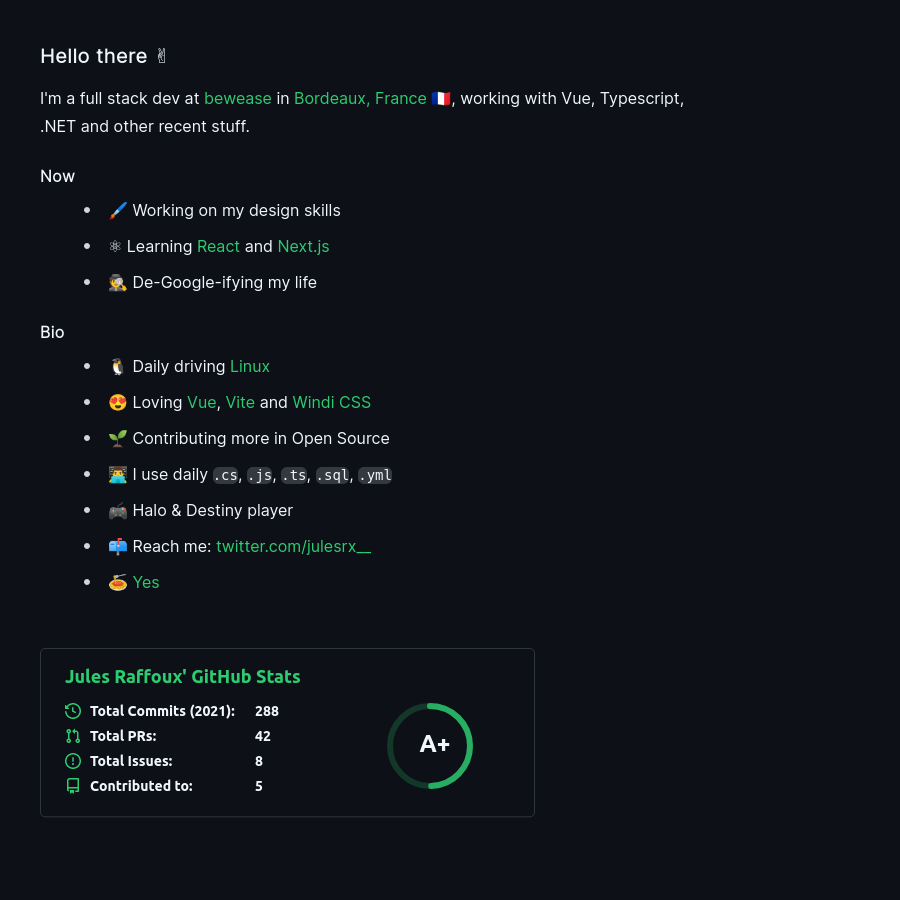
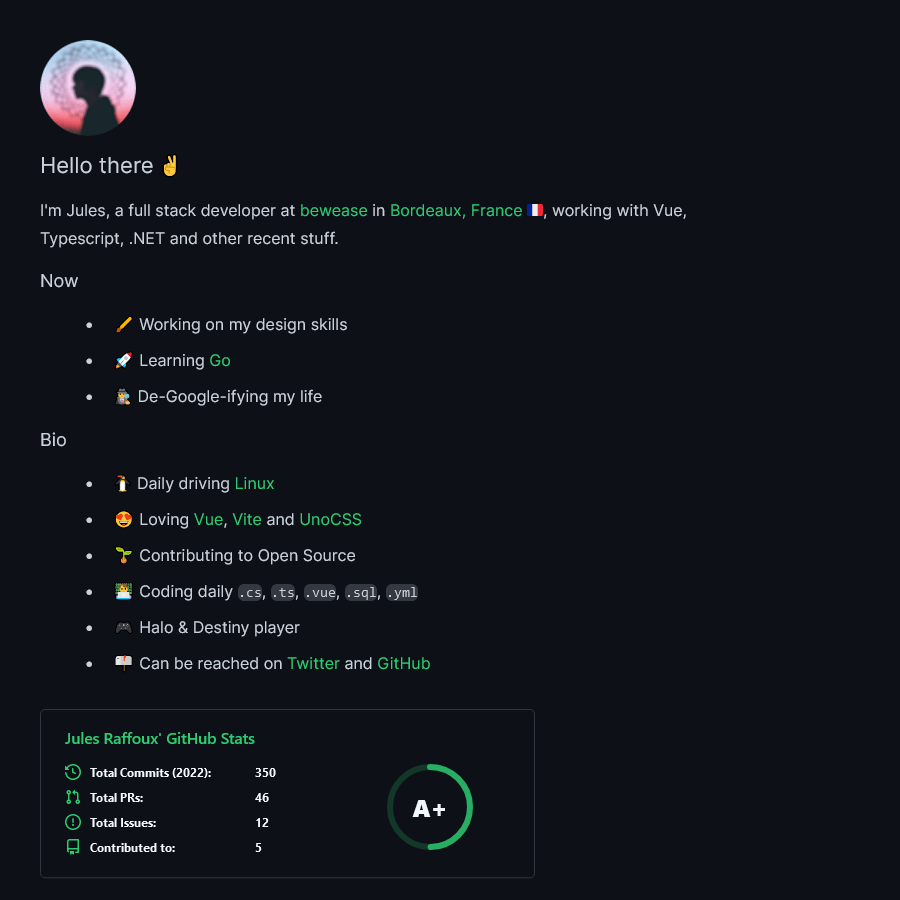
Deploying to gh-pages from @ julesrx/julesrx@035dab3df18ef5d6481e03337e4363506f4db518 🚀

diff --git a/_payload.js b/_payload.js
@@ -1,1 +1,1 @@
-export default (function(a,b,c,d,e,f,g,h,i,j,k,l,m,n,o,p,q,r,s,t,u,v,w,x,y,z,A,B,C,D,E,F,G,H,I,J,K,L,M,N,O,P,Q,R,S,T,U,V,W,X,Y,Z,_,$,aa,ab,ac,ad,ae,af){return {data:{"content-query-cZoCUvfeI7":{_path:"\u002Freadme",_draft:m,_partial:m,_locale:"en",_empty:m,title:"Readme",description:p,excerpt:{type:q,children:[{type:b,tag:r,props:{id:n},children:[{type:a,value:o}]},{type:b,tag:h,props:{},children:[{type:a,value:s},{type:b,tag:c,props:{href:t,rel:[d]},children:[{type:a,value:u}]},{type:a,value:v},{type:b,tag:c,props:{href:w,rel:[d]},children:[{type:a,value:x}]},{type:a,value:y}]},{type:b,tag:i,props:{id:z},children:[{type:a,value:A}]},{type:b,tag:j,props:{},children:[{type:b,tag:e,props:{},children:[{type:a,value:B}]},{type:b,tag:e,props:{},children:[{type:a,value:C},{type:b,tag:c,props:{href:D,rel:[d]},children:[{type:a,value:E}]}]},{type:b,tag:e,props:{},children:[{type:a,value:F}]}]},{type:b,tag:i,props:{id:G},children:[{type:a,value:H}]},{type:b,tag:j,props:{},children:[{type:b,tag:e,props:{},children:[{type:a,value:I},{type:b,tag:c,props:{href:J,rel:[d]},children:[{type:a,value:K}]}]},{type:b,tag:e,props:{},children:[{type:a,value:L},{type:b,tag:c,props:{href:M,rel:[d]},children:[{type:a,value:N}]},{type:a,value:f},{type:b,tag:c,props:{href:O,rel:[d]},children:[{type:a,value:P}]},{type:a,value:k},{type:b,tag:c,props:{href:Q,rel:[d]},children:[{type:a,value:R}]}]},{type:b,tag:e,props:{},children:[{type:a,value:S}]},{type:b,tag:e,props:{},children:[{type:a,value:T},{type:b,tag:g,props:{},children:[{type:a,value:U}]},{type:a,value:f},{type:b,tag:g,props:{},children:[{type:a,value:V}]},{type:a,value:f},{type:b,tag:g,props:{},children:[{type:a,value:W}]},{type:a,value:f},{type:b,tag:g,props:{},children:[{type:a,value:X}]},{type:a,value:f},{type:b,tag:g,props:{},children:[{type:a,value:Y}]}]},{type:b,tag:e,props:{},children:[{type:a,value:Z}]},{type:b,tag:e,props:{},children:[{type:a,value:_},{type:b,tag:c,props:{href:$,rel:[d]},children:[{type:a,value:aa}]},{type:a,value:k},{type:b,tag:c,props:{href:l,rel:[d]},children:[{type:a,value:ab}]}]}]},{type:b,tag:h,props:{},children:[{type:b,tag:c,props:{href:l,rel:[d]},children:[{type:b,tag:ac,props:{alt:ad,src:ae},children:[]}]}]}]},body:{type:q,children:[{type:b,tag:r,props:{id:n},children:[{type:a,value:o}]},{type:b,tag:h,props:{},children:[{type:a,value:s},{type:b,tag:c,props:{href:t,rel:[d]},children:[{type:a,value:u}]},{type:a,value:v},{type:b,tag:c,props:{href:w,rel:[d]},children:[{type:a,value:x}]},{type:a,value:y}]},{type:b,tag:i,props:{id:z},children:[{type:a,value:A}]},{type:b,tag:j,props:{},children:[{type:b,tag:e,props:{},children:[{type:a,value:B}]},{type:b,tag:e,props:{},children:[{type:a,value:C},{type:b,tag:c,props:{href:D,rel:[d]},children:[{type:a,value:E}]}]},{type:b,tag:e,props:{},children:[{type:a,value:F}]}]},{type:b,tag:i,props:{id:G},children:[{type:a,value:H}]},{type:b,tag:j,props:{},children:[{type:b,tag:e,props:{},children:[{type:a,value:I},{type:b,tag:c,props:{href:J,rel:[d]},children:[{type:a,value:K}]}]},{type:b,tag:e,props:{},children:[{type:a,value:L},{type:b,tag:c,props:{href:M,rel:[d]},children:[{type:a,value:N}]},{type:a,value:f},{type:b,tag:c,props:{href:O,rel:[d]},children:[{type:a,value:P}]},{type:a,value:k},{type:b,tag:c,props:{href:Q,rel:[d]},children:[{type:a,value:R}]}]},{type:b,tag:e,props:{},children:[{type:a,value:S}]},{type:b,tag:e,props:{},children:[{type:a,value:T},{type:b,tag:g,props:{},children:[{type:a,value:U}]},{type:a,value:f},{type:b,tag:g,props:{},children:[{type:a,value:V}]},{type:a,value:f},{type:b,tag:g,props:{},children:[{type:a,value:W}]},{type:a,value:f},{type:b,tag:g,props:{},children:[{type:a,value:X}]},{type:a,value:f},{type:b,tag:g,props:{},children:[{type:a,value:Y}]}]},{type:b,tag:e,props:{},children:[{type:a,value:Z}]},{type:b,tag:e,props:{},children:[{type:a,value:_},{type:b,tag:c,props:{href:$,rel:[d]},children:[{type:a,value:aa}]},{type:a,value:k},{type:b,tag:c,props:{href:l,rel:[d]},children:[{type:a,value:ab}]}]}]},{type:b,tag:h,props:{},children:[{type:b,tag:c,props:{href:l,rel:[d]},children:[{type:b,tag:ac,props:{alt:ad,src:ae},children:[]}]}]}],toc:{title:p,searchDepth:af,depth:af,links:[{id:n,depth:3,text:o}]}},_type:"markdown",_id:"content:readme.md",_source:"content",_file:"readme.md",_extension:"md"}},prerenderedAt:1668645088733}}("text","element","a","nofollow","li",", ","code-inline","p","h4","ul"," and ","https:\u002F\u002Fgithub.com\u002Fjulesrx",false,"hello-there-","Hello there ✌","","root","h3","I'm Jules, a full stack developer at ","https:\u002F\u002Fbewease.fr\u002F","bewease"," in ","https:\u002F\u002Fwww.openstreetmap.org\u002Fnode\u002F1691675873","Bordeaux, France 🇫🇷",", working with Vue, Typescript, .NET and other recent stuff.","now","Now","🖌 Working on my design skills","🚀 Learning ","https:\u002F\u002Fgo.dev\u002F","Go","🕵 De-Google-ifying my life","bio","Bio","🐧 Daily driving ","https:\u002F\u002Fpop.system76.com\u002F","Linux","😍 Loving ","https:\u002F\u002Fvuejs.org\u002F","Vue","https:\u002F\u002Fvitejs.dev\u002F","Vite","https:\u002F\u002Fgithub.com\u002Funocss\u002Funocss\u002F","UnoCSS","🌱 Contributing to Open Source","👨💻 Coding daily ",".cs",".ts",".vue",".sql",".yml","🎮 Halo & Destiny player","📫 Can be reached on ","https:\u002F\u002Ftwitter.com\u002Fjulesrafx","Twitter","GitHub","img","julesrx's GitHub Stats","https:\u002F\u002Fgithub-readme-stats.vercel.app\u002Fapi?username=julesrx&hide=stars&count_private=true&show_icons=true&text_color=F0F6FC&title_color=2ecc71&icon_color=2ecc71&bg_color=0d1117&border_color=30363d",2))
+export default (function(a,b,c,d,e,f,g,h,i,j,k,l,m,n,o,p,q,r,s,t,u,v,w,x,y,z,A,B,C,D,E,F,G,H,I,J,K,L,M,N,O,P,Q,R,S,T,U,V,W,X,Y,Z,_,$,aa,ab,ac,ad,ae,af){return {data:{"content-query-cZoCUvfeI7":{_path:"\u002Freadme",_draft:m,_partial:m,_locale:"en",_empty:m,title:"Readme",description:p,excerpt:{type:q,children:[{type:b,tag:r,props:{id:n},children:[{type:a,value:o}]},{type:b,tag:h,props:{},children:[{type:a,value:s},{type:b,tag:c,props:{href:t,rel:[d]},children:[{type:a,value:u}]},{type:a,value:v},{type:b,tag:c,props:{href:w,rel:[d]},children:[{type:a,value:x}]},{type:a,value:y}]},{type:b,tag:i,props:{id:z},children:[{type:a,value:A}]},{type:b,tag:j,props:{},children:[{type:b,tag:e,props:{},children:[{type:a,value:B}]},{type:b,tag:e,props:{},children:[{type:a,value:C},{type:b,tag:c,props:{href:D,rel:[d]},children:[{type:a,value:E}]}]},{type:b,tag:e,props:{},children:[{type:a,value:F}]}]},{type:b,tag:i,props:{id:G},children:[{type:a,value:H}]},{type:b,tag:j,props:{},children:[{type:b,tag:e,props:{},children:[{type:a,value:I},{type:b,tag:c,props:{href:J,rel:[d]},children:[{type:a,value:K}]}]},{type:b,tag:e,props:{},children:[{type:a,value:L},{type:b,tag:c,props:{href:M,rel:[d]},children:[{type:a,value:N}]},{type:a,value:f},{type:b,tag:c,props:{href:O,rel:[d]},children:[{type:a,value:P}]},{type:a,value:k},{type:b,tag:c,props:{href:Q,rel:[d]},children:[{type:a,value:R}]}]},{type:b,tag:e,props:{},children:[{type:a,value:S}]},{type:b,tag:e,props:{},children:[{type:a,value:T},{type:b,tag:g,props:{},children:[{type:a,value:U}]},{type:a,value:f},{type:b,tag:g,props:{},children:[{type:a,value:V}]},{type:a,value:f},{type:b,tag:g,props:{},children:[{type:a,value:W}]},{type:a,value:f},{type:b,tag:g,props:{},children:[{type:a,value:X}]},{type:a,value:f},{type:b,tag:g,props:{},children:[{type:a,value:Y}]}]},{type:b,tag:e,props:{},children:[{type:a,value:Z}]},{type:b,tag:e,props:{},children:[{type:a,value:_},{type:b,tag:c,props:{href:$,rel:[d]},children:[{type:a,value:aa}]},{type:a,value:k},{type:b,tag:c,props:{href:l,rel:[d]},children:[{type:a,value:ab}]}]}]},{type:b,tag:h,props:{},children:[{type:b,tag:c,props:{href:l,rel:[d]},children:[{type:b,tag:ac,props:{alt:ad,src:ae},children:[]}]}]}]},body:{type:q,children:[{type:b,tag:r,props:{id:n},children:[{type:a,value:o}]},{type:b,tag:h,props:{},children:[{type:a,value:s},{type:b,tag:c,props:{href:t,rel:[d]},children:[{type:a,value:u}]},{type:a,value:v},{type:b,tag:c,props:{href:w,rel:[d]},children:[{type:a,value:x}]},{type:a,value:y}]},{type:b,tag:i,props:{id:z},children:[{type:a,value:A}]},{type:b,tag:j,props:{},children:[{type:b,tag:e,props:{},children:[{type:a,value:B}]},{type:b,tag:e,props:{},children:[{type:a,value:C},{type:b,tag:c,props:{href:D,rel:[d]},children:[{type:a,value:E}]}]},{type:b,tag:e,props:{},children:[{type:a,value:F}]}]},{type:b,tag:i,props:{id:G},children:[{type:a,value:H}]},{type:b,tag:j,props:{},children:[{type:b,tag:e,props:{},children:[{type:a,value:I},{type:b,tag:c,props:{href:J,rel:[d]},children:[{type:a,value:K}]}]},{type:b,tag:e,props:{},children:[{type:a,value:L},{type:b,tag:c,props:{href:M,rel:[d]},children:[{type:a,value:N}]},{type:a,value:f},{type:b,tag:c,props:{href:O,rel:[d]},children:[{type:a,value:P}]},{type:a,value:k},{type:b,tag:c,props:{href:Q,rel:[d]},children:[{type:a,value:R}]}]},{type:b,tag:e,props:{},children:[{type:a,value:S}]},{type:b,tag:e,props:{},children:[{type:a,value:T},{type:b,tag:g,props:{},children:[{type:a,value:U}]},{type:a,value:f},{type:b,tag:g,props:{},children:[{type:a,value:V}]},{type:a,value:f},{type:b,tag:g,props:{},children:[{type:a,value:W}]},{type:a,value:f},{type:b,tag:g,props:{},children:[{type:a,value:X}]},{type:a,value:f},{type:b,tag:g,props:{},children:[{type:a,value:Y}]}]},{type:b,tag:e,props:{},children:[{type:a,value:Z}]},{type:b,tag:e,props:{},children:[{type:a,value:_},{type:b,tag:c,props:{href:$,rel:[d]},children:[{type:a,value:aa}]},{type:a,value:k},{type:b,tag:c,props:{href:l,rel:[d]},children:[{type:a,value:ab}]}]}]},{type:b,tag:h,props:{},children:[{type:b,tag:c,props:{href:l,rel:[d]},children:[{type:b,tag:ac,props:{alt:ad,src:ae},children:[]}]}]}],toc:{title:p,searchDepth:af,depth:af,links:[{id:n,depth:3,text:o}]}},_type:"markdown",_id:"content:readme.md",_source:"content",_file:"readme.md",_extension:"md"}},prerenderedAt:1668674274795}}("text","element","a","nofollow","li",", ","code-inline","p","h4","ul"," and ","https:\u002F\u002Fgithub.com\u002Fjulesrx",false,"hello-there-","Hello there ✌","","root","h3","I'm Jules, a full stack developer at ","https:\u002F\u002Fbewease.fr\u002F","bewease"," in ","https:\u002F\u002Fwww.openstreetmap.org\u002Fnode\u002F1691675873","Bordeaux, France 🇫🇷",", working with Vue, Typescript, .NET and other recent stuff.","now","Now","🖌 Working on my design skills","🚀 Learning ","https:\u002F\u002Fgo.dev\u002F","Go","🕵 De-Google-ifying my life","bio","Bio","🐧 Daily driving ","https:\u002F\u002Fpop.system76.com\u002F","Linux","😍 Loving ","https:\u002F\u002Fvuejs.org\u002F","Vue","https:\u002F\u002Fvitejs.dev\u002F","Vite","https:\u002F\u002Fgithub.com\u002Funocss\u002Funocss\u002F","UnoCSS","🌱 Contributing to Open Source","👨💻 Coding daily ",".cs",".ts",".vue",".sql",".yml","🎮 Halo & Destiny player","📫 Can be reached on ","https:\u002F\u002Ftwitter.com\u002Fjulesrafx","Twitter","GitHub","img","julesrx's GitHub Stats","https:\u002F\u002Fgithub-readme-stats.vercel.app\u002Fapi?username=julesrx&hide=stars&count_private=true&show_icons=true&text_color=F0F6FC&title_color=2ecc71&icon_color=2ecc71&bg_color=0d1117&border_color=30363d",2))

diff --git a/index.html b/index.html
@@ -21,5 +21,5 @@
 <link rel="canonical" href="url">
 <link rel="icon" type="image/x-icon" href="/favicon.ico">
 <link rel="shortcut icon" type="image/x-icon" href="/favicon.ico"><link rel="modulepreload" href="/_payload.js"><link rel="modulepreload" as="script" crossorigin href="/_nuxt/entry.15b4ac2f.js"><link rel="preload" as="style" href="/_nuxt/entry.c1e58073.css"><link rel="modulepreload" as="script" crossorigin href="/_nuxt/index.07ff8b64.js"><link rel="modulepreload" as="script" crossorigin href="/_nuxt/ContentDoc.9a85f1e5.js"><link rel="modulepreload" as="script" crossorigin href="/_nuxt/ContentRenderer.0c649402.js"><link rel="modulepreload" as="script" crossorigin href="/_nuxt/ContentRendererMarkdown.0174db1c.js"><link rel="modulepreload" as="script" crossorigin href="/_nuxt/_commonjsHelpers.32e42f04.js"><link rel="modulepreload" as="script" crossorigin href="/_nuxt/ContentQuery.159681de.js"><link rel="modulepreload" as="script" crossorigin href="/_nuxt/asyncData.248b3691.js"><link rel="modulepreload" as="script" crossorigin href="/_nuxt/utils.a01f7fb3.js"><link rel="modulepreload" as="script" crossorigin href="/_nuxt/_plugin-vue_export-helper.a1a6add7.js"><link rel="modulepreload" as="script" crossorigin href="/_nuxt/ProseH3.e3d140c6.js"><link rel="modulepreload" as="script" crossorigin href="/_nuxt/ProseP.b39d60f5.js"><link rel="modulepreload" as="script" crossorigin href="/_nuxt/ProseA.a05da9f9.js"><link rel="modulepreload" as="script" crossorigin href="/_nuxt/ProseH4.7830e195.js"><link rel="modulepreload" as="script" crossorigin href="/_nuxt/ProseUl.41420482.js"><link rel="modulepreload" as="script" crossorigin href="/_nuxt/ProseLi.9b19e97b.js"><link rel="modulepreload" as="script" crossorigin href="/_nuxt/ProseCodeInline.79aa7714.js"><link rel="modulepreload" as="script" crossorigin href="/_nuxt/ProseImg.b353dec5.js"><link rel="prefetch" as="script" crossorigin href="/_nuxt/web-socket.d688f0e5.js"><link rel="prefetch" as="script" crossorigin href="/_nuxt/error-component.d9dafdbc.js"><link rel="stylesheet" href="/_nuxt/entry.c1e58073.css"></head>
-<body class="bg-[#0d1117] color-[#c9d1d9] lg:p-16 md:p-10 p-2 m-0 overflow-x-hidden"><div id="__nuxt"><!--[--><!----><!----><!--[--><!----><!----><!----><!----><!----><!----><!----><!----><!----><!----><!----><!----><!----><!----><!----><!----><!----><!----><!----><!----><!--]--><main><header class="flex items-end mb-4 space-x-4 justify-between"><a aria-current="page" href="/" class="router-link-active router-link-exact-active"><img src="/favicon.ico" class="h-24 w-24 rounded-full" alt="Jules Raffoux"></a></header><!--[--><!--[--><article id="readme" class="prose"><h3 id="hello-there-"><a href="#hello-there-"><!--[-->Hello there ✌<!--]--></a></h3><p><!--[-->I&#39;m Jules, a full stack developer at <a href="https://bewease.fr/" rel="nofollow"><!--[-->bewease<!--]--></a> in <a href="https://www.openstreetmap.org/node/1691675873" rel="nofollow"><!--[-->Bordeaux, France 🇫🇷<!--]--></a>, working with Vue, Typescript, .NET and other recent stuff.<!--]--></p><h4 id="now"><a href="#now"><!--[-->Now<!--]--></a></h4><ul><!--[--><li><!--[-->🖌 Working on my design skills<!--]--></li><li><!--[-->🚀 Learning <a href="https://go.dev/" rel="nofollow"><!--[-->Go<!--]--></a><!--]--></li><li><!--[-->🕵 De-Google-ifying my life<!--]--></li><!--]--></ul><h4 id="bio"><a href="#bio"><!--[-->Bio<!--]--></a></h4><ul><!--[--><li><!--[-->🐧 Daily driving <a href="https://pop.system76.com/" rel="nofollow"><!--[-->Linux<!--]--></a><!--]--></li><li><!--[-->😍 Loving <a href="https://vuejs.org/" rel="nofollow"><!--[-->Vue<!--]--></a>, <a href="https://vitejs.dev/" rel="nofollow"><!--[-->Vite<!--]--></a> and <a href="https://github.com/unocss/unocss/" rel="nofollow"><!--[-->UnoCSS<!--]--></a><!--]--></li><li><!--[-->🌱 Contributing to Open Source<!--]--></li><li><!--[-->👨💻 Coding daily <code><!--[-->.cs<!--]--></code>, <code><!--[-->.ts<!--]--></code>, <code><!--[-->.vue<!--]--></code>, <code><!--[-->.sql<!--]--></code>, <code><!--[-->.yml<!--]--></code><!--]--></li><li><!--[-->🎮 Halo &amp; Destiny player<!--]--></li><li><!--[-->📫 Can be reached on <a href="https://twitter.com/julesrafx" rel="nofollow"><!--[-->Twitter<!--]--></a> and <a href="https://github.com/julesrx" rel="nofollow"><!--[-->GitHub<!--]--></a><!--]--></li><!--]--></ul><p><!--[--><a href="https://github.com/julesrx" rel="nofollow"><!--[--><img src="https://github-readme-stats.vercel.app/api?username=julesrx&amp;hide=stars&amp;count_private=true&amp;show_icons=true&amp;text_color=F0F6FC&amp;title_color=2ecc71&amp;icon_color=2ecc71&amp;bg_color=0d1117&amp;border_color=30363d" alt="julesrx&#39;s GitHub Stats"><!--]--></a><!--]--></p></article><!--]--><!--]--></main><!--]--></div><script type="module">import p from "/_payload.js";window.__NUXT__={...p,...((function(a,b){return {state:{},_errors:{},serverRendered:true,config:{public:{content:{clientDB:{isSPA:a,integrity:1668645075683},navigation:{fields:[]},base:"_content",tags:{p:"prose-p",a:"prose-a",blockquote:"prose-blockquote","code-inline":"prose-code-inline",code:"prose-code",em:"prose-em",h1:"prose-h1",h2:"prose-h2",h3:"prose-h3",h4:"prose-h4",h5:"prose-h5",h6:"prose-h6",hr:"prose-hr",img:"prose-img",ul:"prose-ul",ol:"prose-ol",li:"prose-li",strong:"prose-strong",table:"prose-table",thead:"prose-thead",tbody:"prose-tbody",td:"prose-td",th:"prose-th",tr:"prose-tr"},highlight:a,wsUrl:b,documentDriven:a,anchorLinks:{depth:4,exclude:[1]}}},app:{baseURL:"\u002F",buildAssetsDir:"\u002F_nuxt\u002F",cdnURL:b}},prerenderedAt:1668645088733}}(false,"")))}</script><script type="module" src="/_nuxt/entry.15b4ac2f.js" crossorigin></script><script type="module" src="/_nuxt/index.07ff8b64.js" crossorigin></script><script type="module" src="/_nuxt/ContentDoc.9a85f1e5.js" crossorigin></script><script type="module" src="/_nuxt/ContentRenderer.0c649402.js" crossorigin></script><script type="module" src="/_nuxt/ContentRendererMarkdown.0174db1c.js" crossorigin></script><script type="module" src="/_nuxt/ProseH3.e3d140c6.js" crossorigin></script><script type="module" src="/_nuxt/ProseP.b39d60f5.js" crossorigin></script><script type="module" src="/_nuxt/ProseA.a05da9f9.js" crossorigin></script><script type="module" src="/_nuxt/ProseH4.7830e195.js" crossorigin></script><script type="module" src="/_nuxt/ProseUl.41420482.js" crossorigin></script><script type="module" src="/_nuxt/ProseLi.9b19e97b.js" crossorigin></script><script type="module" src="/_nuxt/ProseCodeInline.79aa7714.js" crossorigin></script><script type="module" src="/_nuxt/ProseImg.b353dec5.js" crossorigin></script></body>
+<body class="bg-[#0d1117] color-[#c9d1d9] lg:p-16 md:p-10 p-2 m-0 overflow-x-hidden"><div id="__nuxt"><!--[--><!----><!----><!--[--><!----><!----><!----><!----><!----><!----><!----><!----><!----><!----><!----><!----><!----><!----><!----><!----><!----><!----><!----><!----><!--]--><main><header class="flex items-end mb-4 space-x-4 justify-between"><a aria-current="page" href="/" class="router-link-active router-link-exact-active"><img src="/favicon.ico" class="h-24 w-24 rounded-full" alt="Jules Raffoux"></a></header><!--[--><!--[--><article id="readme" class="prose"><h3 id="hello-there-"><a href="#hello-there-"><!--[-->Hello there ✌<!--]--></a></h3><p><!--[-->I&#39;m Jules, a full stack developer at <a href="https://bewease.fr/" rel="nofollow"><!--[-->bewease<!--]--></a> in <a href="https://www.openstreetmap.org/node/1691675873" rel="nofollow"><!--[-->Bordeaux, France 🇫🇷<!--]--></a>, working with Vue, Typescript, .NET and other recent stuff.<!--]--></p><h4 id="now"><a href="#now"><!--[-->Now<!--]--></a></h4><ul><!--[--><li><!--[-->🖌 Working on my design skills<!--]--></li><li><!--[-->🚀 Learning <a href="https://go.dev/" rel="nofollow"><!--[-->Go<!--]--></a><!--]--></li><li><!--[-->🕵 De-Google-ifying my life<!--]--></li><!--]--></ul><h4 id="bio"><a href="#bio"><!--[-->Bio<!--]--></a></h4><ul><!--[--><li><!--[-->🐧 Daily driving <a href="https://pop.system76.com/" rel="nofollow"><!--[-->Linux<!--]--></a><!--]--></li><li><!--[-->😍 Loving <a href="https://vuejs.org/" rel="nofollow"><!--[-->Vue<!--]--></a>, <a href="https://vitejs.dev/" rel="nofollow"><!--[-->Vite<!--]--></a> and <a href="https://github.com/unocss/unocss/" rel="nofollow"><!--[-->UnoCSS<!--]--></a><!--]--></li><li><!--[-->🌱 Contributing to Open Source<!--]--></li><li><!--[-->👨💻 Coding daily <code><!--[-->.cs<!--]--></code>, <code><!--[-->.ts<!--]--></code>, <code><!--[-->.vue<!--]--></code>, <code><!--[-->.sql<!--]--></code>, <code><!--[-->.yml<!--]--></code><!--]--></li><li><!--[-->🎮 Halo &amp; Destiny player<!--]--></li><li><!--[-->📫 Can be reached on <a href="https://twitter.com/julesrafx" rel="nofollow"><!--[-->Twitter<!--]--></a> and <a href="https://github.com/julesrx" rel="nofollow"><!--[-->GitHub<!--]--></a><!--]--></li><!--]--></ul><p><!--[--><a href="https://github.com/julesrx" rel="nofollow"><!--[--><img src="https://github-readme-stats.vercel.app/api?username=julesrx&amp;hide=stars&amp;count_private=true&amp;show_icons=true&amp;text_color=F0F6FC&amp;title_color=2ecc71&amp;icon_color=2ecc71&amp;bg_color=0d1117&amp;border_color=30363d" alt="julesrx&#39;s GitHub Stats"><!--]--></a><!--]--></p></article><!--]--><!--]--></main><!--]--></div><script type="module">import p from "/_payload.js";window.__NUXT__={...p,...((function(a,b){return {state:{},_errors:{},serverRendered:true,config:{public:{content:{clientDB:{isSPA:a,integrity:1668674262748},navigation:{fields:[]},base:"_content",tags:{p:"prose-p",a:"prose-a",blockquote:"prose-blockquote","code-inline":"prose-code-inline",code:"prose-code",em:"prose-em",h1:"prose-h1",h2:"prose-h2",h3:"prose-h3",h4:"prose-h4",h5:"prose-h5",h6:"prose-h6",hr:"prose-hr",img:"prose-img",ul:"prose-ul",ol:"prose-ol",li:"prose-li",strong:"prose-strong",table:"prose-table",thead:"prose-thead",tbody:"prose-tbody",td:"prose-td",th:"prose-th",tr:"prose-tr"},highlight:a,wsUrl:b,documentDriven:a,anchorLinks:{depth:4,exclude:[1]}}},app:{baseURL:"\u002F",buildAssetsDir:"\u002F_nuxt\u002F",cdnURL:b}},prerenderedAt:1668674274795}}(false,"")))}</script><script type="module" src="/_nuxt/entry.15b4ac2f.js" crossorigin></script><script type="module" src="/_nuxt/index.07ff8b64.js" crossorigin></script><script type="module" src="/_nuxt/ContentDoc.9a85f1e5.js" crossorigin></script><script type="module" src="/_nuxt/ContentRenderer.0c649402.js" crossorigin></script><script type="module" src="/_nuxt/ContentRendererMarkdown.0174db1c.js" crossorigin></script><script type="module" src="/_nuxt/ProseH3.e3d140c6.js" crossorigin></script><script type="module" src="/_nuxt/ProseP.b39d60f5.js" crossorigin></script><script type="module" src="/_nuxt/ProseA.a05da9f9.js" crossorigin></script><script type="module" src="/_nuxt/ProseH4.7830e195.js" crossorigin></script><script type="module" src="/_nuxt/ProseUl.41420482.js" crossorigin></script><script type="module" src="/_nuxt/ProseLi.9b19e97b.js" crossorigin></script><script type="module" src="/_nuxt/ProseCodeInline.79aa7714.js" crossorigin></script><script type="module" src="/_nuxt/ProseImg.b353dec5.js" crossorigin></script></body>
 </html>

diff --git a/200.html b/200.html
@@ -2,5 +2,5 @@
 <html >
 <head><meta charset="utf-8">
 <meta name="viewport" content="width=device-width, initial-scale=1"><link rel="modulepreload" as="script" crossorigin href="/_nuxt/entry.15b4ac2f.js"><link rel="preload" as="style" href="/_nuxt/entry.c1e58073.css"><link rel="prefetch" as="script" crossorigin href="/_nuxt/ContentQuery.159681de.js"><link rel="prefetch" as="script" crossorigin href="/_nuxt/asyncData.248b3691.js"><link rel="prefetch" as="script" crossorigin href="/_nuxt/utils.a01f7fb3.js"><link rel="prefetch" as="script" crossorigin href="/_nuxt/web-socket.d688f0e5.js"><link rel="prefetch" as="script" crossorigin href="/_nuxt/error-component.d9dafdbc.js"><link rel="stylesheet" href="/_nuxt/entry.c1e58073.css"></head>
-<body ><div id="__nuxt"></div><script>window.__NUXT__=(function(a,b){return {serverRendered:a,config:{public:{content:{clientDB:{isSPA:a,integrity:1668645075683},navigation:{fields:[]},base:"_content",tags:{p:"prose-p",a:"prose-a",blockquote:"prose-blockquote","code-inline":"prose-code-inline",code:"prose-code",em:"prose-em",h1:"prose-h1",h2:"prose-h2",h3:"prose-h3",h4:"prose-h4",h5:"prose-h5",h6:"prose-h6",hr:"prose-hr",img:"prose-img",ul:"prose-ul",ol:"prose-ol",li:"prose-li",strong:"prose-strong",table:"prose-table",thead:"prose-thead",tbody:"prose-tbody",td:"prose-td",th:"prose-th",tr:"prose-tr"},highlight:a,wsUrl:b,documentDriven:a,anchorLinks:{depth:4,exclude:[1]}}},app:{baseURL:"\u002F",buildAssetsDir:"\u002F_nuxt\u002F",cdnURL:b}},data:{},state:{}}}(false,""))</script><script type="module" src="/_nuxt/entry.15b4ac2f.js" crossorigin></script></body>
+<body ><div id="__nuxt"></div><script>window.__NUXT__=(function(a,b){return {serverRendered:a,config:{public:{content:{clientDB:{isSPA:a,integrity:1668674262748},navigation:{fields:[]},base:"_content",tags:{p:"prose-p",a:"prose-a",blockquote:"prose-blockquote","code-inline":"prose-code-inline",code:"prose-code",em:"prose-em",h1:"prose-h1",h2:"prose-h2",h3:"prose-h3",h4:"prose-h4",h5:"prose-h5",h6:"prose-h6",hr:"prose-hr",img:"prose-img",ul:"prose-ul",ol:"prose-ol",li:"prose-li",strong:"prose-strong",table:"prose-table",thead:"prose-thead",tbody:"prose-tbody",td:"prose-td",th:"prose-th",tr:"prose-tr"},highlight:a,wsUrl:b,documentDriven:a,anchorLinks:{depth:4,exclude:[1]}}},app:{baseURL:"\u002F",buildAssetsDir:"\u002F_nuxt\u002F",cdnURL:b}},data:{},state:{}}}(false,""))</script><script type="module" src="/_nuxt/entry.15b4ac2f.js" crossorigin></script></body>
 </html>

diff --git a/404.html b/404.html
@@ -2,5 +2,5 @@
 <html >
 <head><meta charset="utf-8">
 <meta name="viewport" content="width=device-width, initial-scale=1"><link rel="modulepreload" as="script" crossorigin href="/_nuxt/entry.15b4ac2f.js"><link rel="preload" as="style" href="/_nuxt/entry.c1e58073.css"><link rel="prefetch" as="script" crossorigin href="/_nuxt/ContentQuery.159681de.js"><link rel="prefetch" as="script" crossorigin href="/_nuxt/asyncData.248b3691.js"><link rel="prefetch" as="script" crossorigin href="/_nuxt/utils.a01f7fb3.js"><link rel="prefetch" as="script" crossorigin href="/_nuxt/web-socket.d688f0e5.js"><link rel="prefetch" as="script" crossorigin href="/_nuxt/error-component.d9dafdbc.js"><link rel="stylesheet" href="/_nuxt/entry.c1e58073.css"></head>
-<body ><div id="__nuxt"></div><script>window.__NUXT__=(function(a,b){return {serverRendered:a,config:{public:{content:{clientDB:{isSPA:a,integrity:1668645075683},navigation:{fields:[]},base:"_content",tags:{p:"prose-p",a:"prose-a",blockquote:"prose-blockquote","code-inline":"prose-code-inline",code:"prose-code",em:"prose-em",h1:"prose-h1",h2:"prose-h2",h3:"prose-h3",h4:"prose-h4",h5:"prose-h5",h6:"prose-h6",hr:"prose-hr",img:"prose-img",ul:"prose-ul",ol:"prose-ol",li:"prose-li",strong:"prose-strong",table:"prose-table",thead:"prose-thead",tbody:"prose-tbody",td:"prose-td",th:"prose-th",tr:"prose-tr"},highlight:a,wsUrl:b,documentDriven:a,anchorLinks:{depth:4,exclude:[1]}}},app:{baseURL:"\u002F",buildAssetsDir:"\u002F_nuxt\u002F",cdnURL:b}},data:{},state:{}}}(false,""))</script><script type="module" src="/_nuxt/entry.15b4ac2f.js" crossorigin></script></body>
+<body ><div id="__nuxt"></div><script>window.__NUXT__=(function(a,b){return {serverRendered:a,config:{public:{content:{clientDB:{isSPA:a,integrity:1668674262748},navigation:{fields:[]},base:"_content",tags:{p:"prose-p",a:"prose-a",blockquote:"prose-blockquote","code-inline":"prose-code-inline",code:"prose-code",em:"prose-em",h1:"prose-h1",h2:"prose-h2",h3:"prose-h3",h4:"prose-h4",h5:"prose-h5",h6:"prose-h6",hr:"prose-hr",img:"prose-img",ul:"prose-ul",ol:"prose-ol",li:"prose-li",strong:"prose-strong",table:"prose-table",thead:"prose-thead",tbody:"prose-tbody",td:"prose-td",th:"prose-th",tr:"prose-tr"},highlight:a,wsUrl:b,documentDriven:a,anchorLinks:{depth:4,exclude:[1]}}},app:{baseURL:"\u002F",buildAssetsDir:"\u002F_nuxt\u002F",cdnURL:b}},data:{},state:{}}}(false,""))</script><script type="module" src="/_nuxt/entry.15b4ac2f.js" crossorigin></script></body>
 </html>
